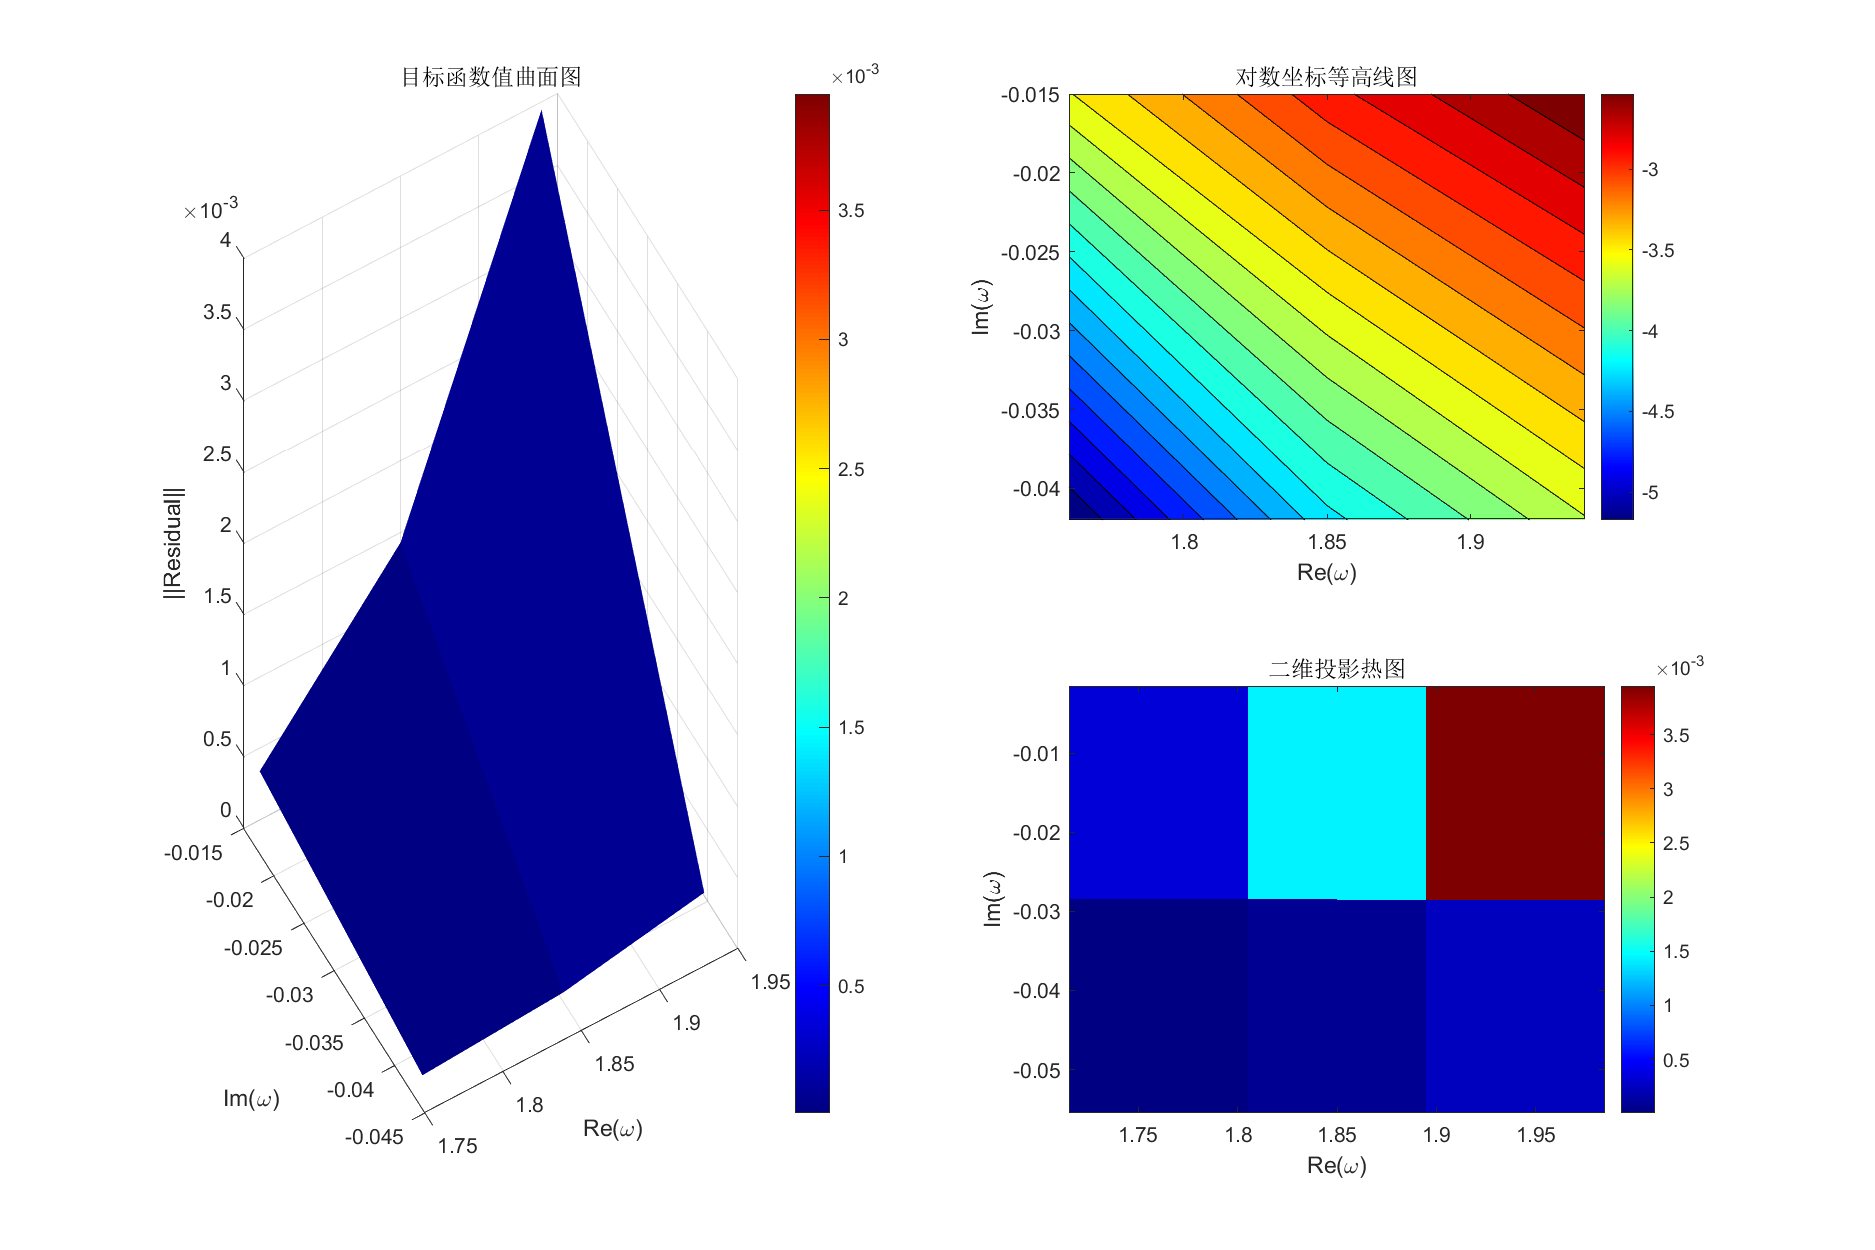
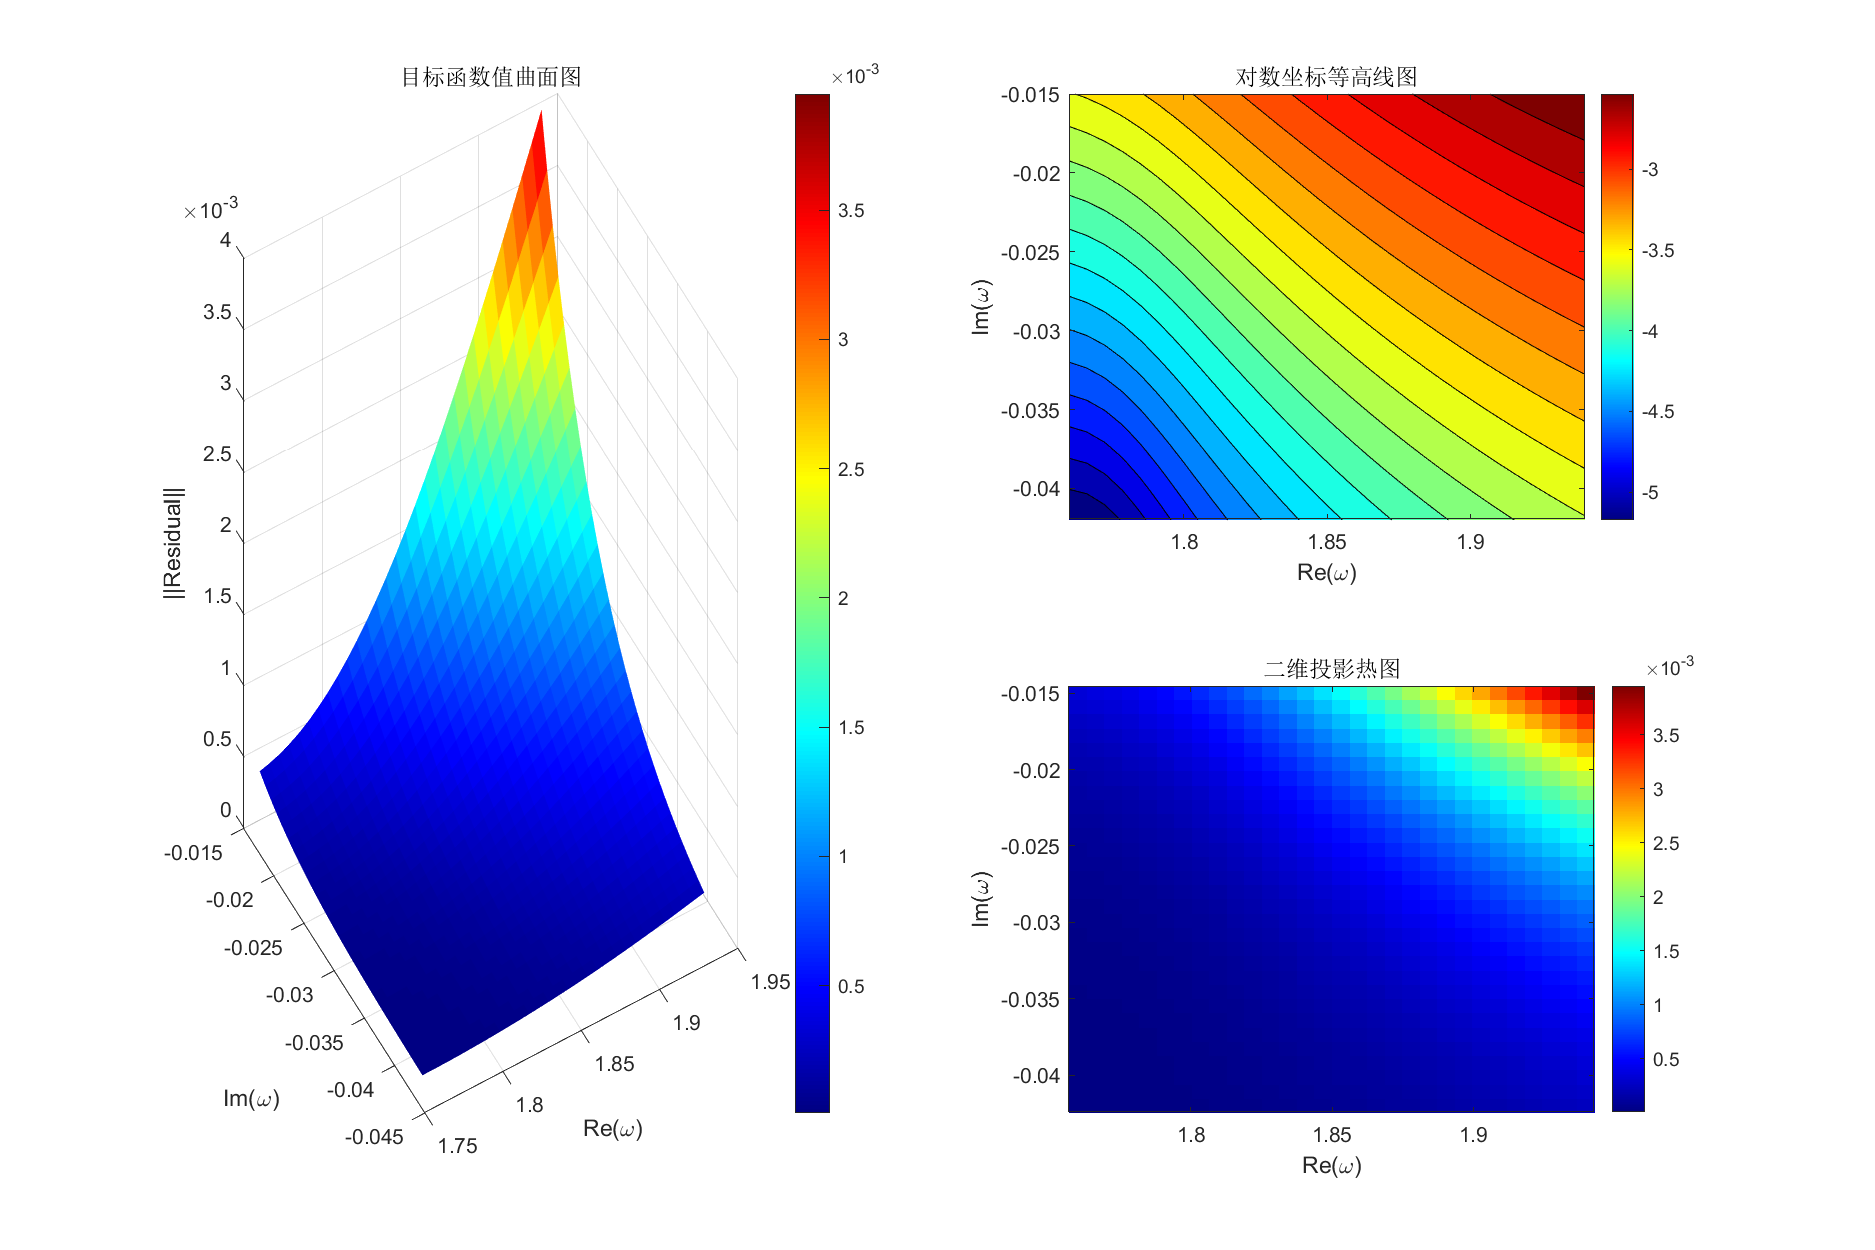
测试初始值计算所得残差搜索结果，差

diff --git a/matlab-solve/gao-ver/shootev_search2d.m b/matlab-solve/gao-ver/shootev_search2d.m
@@ -6,66 +6,124 @@ function shootev_search2d()
         mkdir('plots');
     end
 
-    % 定义实部 虚部 参数扫描范围
-    realomg = linspace(1.76, 1.94, 3);
-    imagomg = linspace(-4.2e-2, -1.5e-2, 2);
+    % 定义参数扫描范围
+    realomg = linspace(1.76, 1.94, 30);    % 实部扫描范围
+    imagomg = linspace(-4.2e-2, -1.5e-2,30); % 虚部扫描范围
     [Re, Im] = meshgrid(realomg, imagomg);    % 生成网格
     
-    % 初始化存储矩阵
-    residual_values = zeros(size(Re));
+    % 将二维网格展平为一维数组以便并行处理
+    omega_list = Re(:) + 1i*Im(:);
+    total_points = numel(omega_list);
+    residual_flat = zeros(total_points, 1);
     
     % ODE求解参数
     deri = 0.0001 + 0.00001i;
     options = odeset('AbsTol', 1e-8, 'RelTol', 1e-8);
 
-    % 遍历所有网格点
-    for i = 1:size(Re, 1)
-        for j = 1:size(Re, 2)
-            % 构造当前复数频率
-            current_omega = Re(i,j) + 1i*Im(i,j);
-            
-            % 计算目标函数值（使用残差的模）
-            residual = shooting_objective(current_omega, deri, options);
-            residual_values(i,j) = norm(residual); % 计算残差的2-范数
-        end
-        fprintf('已完成 %.1f%%\n', 100*i/size(Re,1)); % 进度显示
+    % 启动并行池
+    if isempty(gcp('nocreate'))
+        parpool; % 根据系统核心数自动分配
     end
 
-    % ========== 三维可视化 ==========
-    fig = figure('Position', [100 100 1200 800]);
-    
-    % 曲面图
-    subplot(2,2,[1 3]);
-    surf(Re, Im, residual_values, 'EdgeColor', 'none');
-    title('目标函数值曲面图');
-    xlabel('Re(\omega)');
-    ylabel('Im(\omega)');
-    zlabel('||Residual||');
-    view(-30, 30);
-    colormap jet;
-    colorbar;
-    
-    % 等高线图
-    subplot(2,2,2);
-    contourf(Re, Im, log10(residual_values), 20);
-    title('对数坐标等高线图');
-    xlabel('Re(\omega)');
-    ylabel('Im(\omega)');
-    colorbar;
-    
-    % 二维投影图
-    subplot(2,2,4);
-    imagesc(realomg, imagomg, residual_values);
-    set(gca,'YDir','normal');
-    title('二维投影热图');
-    xlabel('Re(\omega)');
-    ylabel('Im(\omega)');
-    colorbar;
-    
-    % 保存图像
-    saveas(fig, fullfile('plots', 'residual_landscape.png'));
-    close(fig);
+    % 创建数据队列用于进度跟踪
+    progressQueue = parallel.pool.DataQueue;
+    afterEach(progressQueue, @updateProgress);
+    progressCount = 0;
+    totalStart = tic;
 
+    % 资源监测初始化
+    monitorTimer = timer('ExecutionMode', 'fixedRate', 'Period', 5, ...
+        'TimerFcn', @(x,y) monitorResources());
+    start(monitorTimer);
+    try
+        % 并行计算主循环
+        parfor k = 1:total_points
+            current_omega = omega_list(k);
+            % 将参数显式传递进目标函数
+            residual = shooting_objective(current_omega, deri, options);
+            residual_flat(k) = norm(residual);
+            
+            % 进度更新
+            send(progressQueue, []);
+        end
+
+        % 结果重构为二维矩阵
+        residual_values = reshape(residual_flat, size(Re));
+
+        % 终止资源监控
+        stop(monitorTimer);
+        delete(monitorTimer);
+        % ========== 三维可视化 ==========
+        fig = figure('Position', [100 100 1200 800]);
+        
+        % 曲面图
+        subplot(2,2,[1 3]);
+        surf(Re, Im, residual_values, 'EdgeColor', 'none');
+        title('目标函数值曲面图');
+        xlabel('Re(\omega)');
+        ylabel('Im(\omega)');
+        zlabel('||Residual||');
+        view(-30, 30);
+        colormap jet;
+        colorbar;
+        
+        % 等高线图
+        subplot(2,2,2);
+        contourf(Re, Im, log10(residual_values), 20);
+        title('对数坐标等高线图');
+        xlabel('Re(\omega)');
+        ylabel('Im(\omega)');
+        colorbar;
+        
+        % 二维投影图
+        subplot(2,2,4);
+        imagesc(realomg, imagomg, residual_values);
+        set(gca,'YDir','normal');
+        title('二维投影热图');
+        xlabel('Re(\omega)');
+        ylabel('Im(\omega)');
+        colorbar;
+        
+        % 保存图像
+        saveas(fig, fullfile('plots', 'residual_landscape.png'));
+        close(fig);
+    catch ME
+        % 异常处理
+        stop(monitorTimer);
+        delete(monitorTimer);
+        rethrow(ME);
+    end
+    % 资源监控函数
+    function monitorResources()
+        try
+            % Windows系统
+            [~, cmdout] = system('wmic OS get FreePhysicalMemory,TotalVisibleMemorySize /value');
+            mem_info = regexp(cmdout, '(\d+)', 'match');
+            total_mem = str2double(mem_info{2})/1024; % MB
+            free_mem = str2double(mem_info{1})/1024;
+            
+            [~, cpu_info] = system('wmic cpu get LoadPercentage /value');
+            cpu_load = regexp(cpu_info, '(\d+)', 'match');
+            
+            fprintf('[资源监控] 内存使用: %.1f/%.1f MB | CPU负载: %s%%\n',...
+                   total_mem-free_mem, total_mem, cpu_load{1});
+        catch
+            fprintf('资源监控仅支持Windows系统\n');
+        end
+    end
+    % 进度更新函数
+    function updateProgress(~)
+        progressCount = progressCount + 1;
+        elapsed = toc(totalStart);
+        remaining = (elapsed/progressCount)*(total_points - progressCount);
+        
+        fprintf('进度: %.1f%%, 已用时间: %.1fs, 预计剩余: %.1fs\n',...
+               progressCount/total_points*100,...
+               elapsed,...
+               remaining);
+    end
+
+end
     % 嵌套函数保持与原始代码一致
     function residual = shooting_objective(omega, deri, options)
         [~, Er] = ode15s(@(x, Er) evfun(x, Er, omega), [0, 1], [0, deri], options);
@@ -121,4 +179,3 @@ function shootev_search2d()
 
         yy = [Er(2); -a3/a1 * Er(1)];
     end
-end
